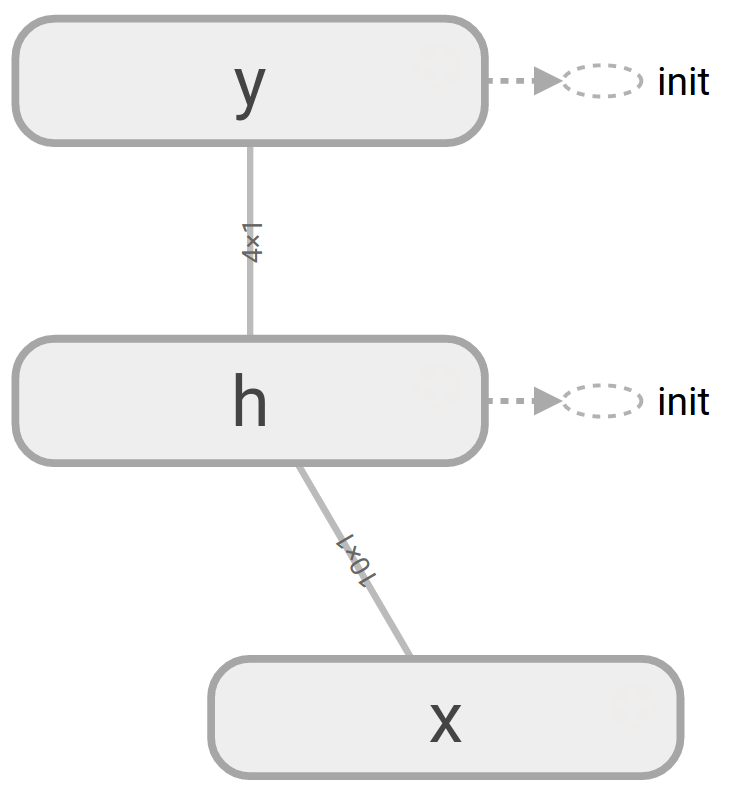
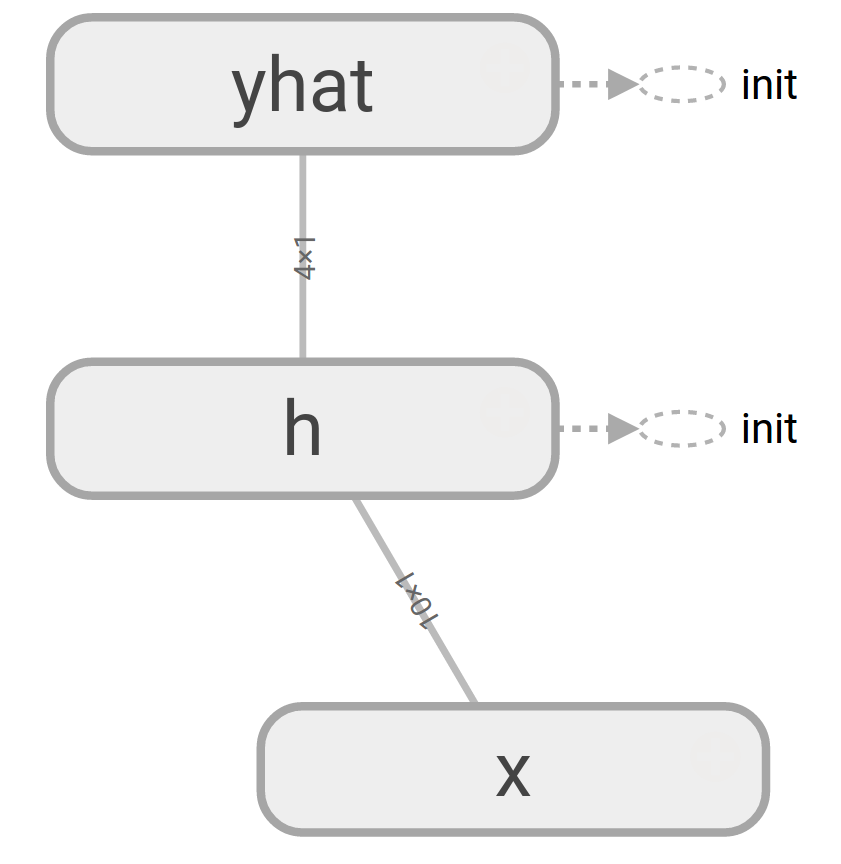
Add new tf graph images

Changed region(s): [[0.0, 0.0, 0.9507, 1.0]]

diff --git a/src/main.tex b/src/main.tex
@@ -93,21 +93,33 @@ softmax(x) = \frac{e^{x}}{\sum e^{x}}
 import tensorflow as tf
 import numpy as np
 
-W1init = np.zeros([4, 10], dtype="float32")
-W2init = np.zeros([2, 4], dtype="float32")
+input_shape = [10,1]
+input_to_hidden_shape = [4,10]
+hidden_to_output_shape = [2,4]
 
-graph = tf.Graph() 
-with graph.as_default():
-    x = tf.placeholder(shape=[10, 1], dtype="float32",
-                       name="x") 
-    W1 = tf.get_variable(initializer=W1init, name="W1")
-    v = tf.matmul(W1, x, name="v")
-    h = tf.sigmoid(v, name="h")
-    W2 = tf.get_variable(initializer=W2init, name="W2")
-    z = tf.matmul(W2, h, name="z")
-    y = tf.nn.softmax(z, name="y")
+W1init = np.zeros(input_to_hidden_shape,
+				  dtype="float32")
+W2init = np.zeros(hidden_to_output_shape,
+				  dtype="float32")
 \end{minted}
 \end{frame}
+
+
+\begin{frame}[fragile]{Tensorflow graph}
+\begin{minted}[linenos]{python}
+graph = tf.Graph() 
+with graph.as_default():
+    x = tf.placeholder(shape=input_shape,
+                       dtype="float32") 
+    W1 = tf.get_variable(initializer=W1init)
+    v = tf.matmul(W1, x)
+    h = tf.sigmoid(v)
+    W2 = tf.get_variable(initializer=W2init)
+    z = tf.matmul(W2, h)
+    yhat = tf.nn.softmax(z)
+\end{minted}
+\end{frame}
+
 
 \begin{frame}[fragile]{Tensorboard visualization}
 \begin{center}
@@ -131,19 +143,18 @@ with graph.as_default():
 graph = tf.Graph() 
 with graph.as_default():
     with tf.variable_scope("x"):
-        x_prime = tf.placeholder(shape=[10, 1],
-                                 dtype="float32",
-                                 name="x_prime") 
+        x_prime = tf.placeholder(shape=input_shape,
+                                 dtype="float32") 
 
     with tf.variable_scope("h"):
-        W1 = tf.get_variable(initializer=W1init, name="W1")
-        v = tf.matmul(W1, x_prime, name="v")
-        h_prime = tf.sigmoid(v, name="h_prime")
+        W1 = tf.get_variable(initializer=W1init)
+        v = tf.matmul(W1, x_prime)
+        h_prime = tf.sigmoid(v)
 
-    with tf.variable_scope("y"):
-        W2 = tf.get_variable(initializer=W2init, name="W2")
-        z = tf.matmul(W2, h_prime, name="z")
-        y_prime = tf.nn.softmax(z, name="y_prime")
+    with tf.variable_scope("yhat"):
+        W2 = tf.get_variable(initializer=W2init)
+        z = tf.matmul(W2, h_prime)
+        y_prime = tf.nn.softmax(z)
 \end{minted}
 \end{frame}
 
@@ -754,17 +765,51 @@ The gradients on $\vect{V}$, $\vect{W}$ and $\vect{U}$ are:
 \section{Vanishing or Exploding Gradient}
 \input{equations}
 
-\begin{frame}{Vanishing or exploding}
+\begin{frame}{Taking a closer look}
+With some notation we can simplify these gradients as follows:
+\begin{eqnarray*}
+\grad{\vect{U}^{(3)}}{L^{(3)}} = \vect{c}{\vect{x}^{(3)}}^{T}
+\end{eqnarray*}
 
-Gradient for further time steps will have more matrix products using $\vect{W}$.
+\begin{eqnarray*}
+\grad{\vect{U}^{(2)}}{L^{(3)}} = \outerp{diag(\vect{b}^{(2)}) \vect{W}^{T} \vect{c}}{\vect{x}^{(2)}}
+\end{eqnarray*}
 
-\vspace{0.3cm}
+\begin{eqnarray*}
+\grad{\vect{U}^{(1)}}{L^{(3)}} = \outerp{\left(diag(\vect{b}^{(1)}) \vect{W}^{T} \right) \left(diag(\vect{b}^{(2)}) \vect{W}^{T}\right) \vect{c}}{\vect{x}^{(1)}}
+\end{eqnarray*}
+\end{frame}
 
-\begin{itemize}
-\item If we initialize $\vect{W}$ such that $||\vect{W}|| < 1$, the gradient for further time steps will be very small (\alert{vanishing problem}). 
+\begin{frame}{Taking a closer look}
+
+\begin{eqnarray*}
+\grad{\vect{U}^{(1)}}{L^{(\tau)}} = \outerp{\left(diag(\vect{b}^{(1)}) \vect{W}^{T} \right) \left(diag(\vect{b}^{(2)}) \vect{W}^{T}\right) \dots \left(diag(\vect{b}^{(\tau-1)}) \vect{W}^{T}\right)\vect{c}}{\vect{x}^{(1)}}
+\end{eqnarray*}
+
 \vspace{0.5cm}
-\item If $||\vect{W}|| > 1$, the gradient for further time steps will be larger and larger (\alert{exploding problem}).
-\end{itemize}
+
+\textbf{Gradient for further time steps will have more matrix products using $diag(\vect{b}) \vect{W}^{T}$.
+}\end{frame}
+
+\begin{frame}{Vanishing}
+
+If we initialize $\vect{W}$ such that $||\vect{W}|| < 1$, the gradient for further time steps will be very small (\alert{vanishing problem}).
+
+\vspace{0.5cm}
+(\alert{vanishing animation!!!!!!!!!!!!!!!!!!!!!!!!!!})
+
+
+\end{frame}
+
+
+
+\begin{frame}{Exploding}
+
+If $||\vect{W}|| > 1$, the gradient for further time steps will be larger and larger (\alert{exploding problem}).
+
+\vspace{0.5cm}
+(\alert{exploding animation!!!!!!!!!!!!!!!!!!!!!!!!!!})
+
 \end{frame}
 
 
